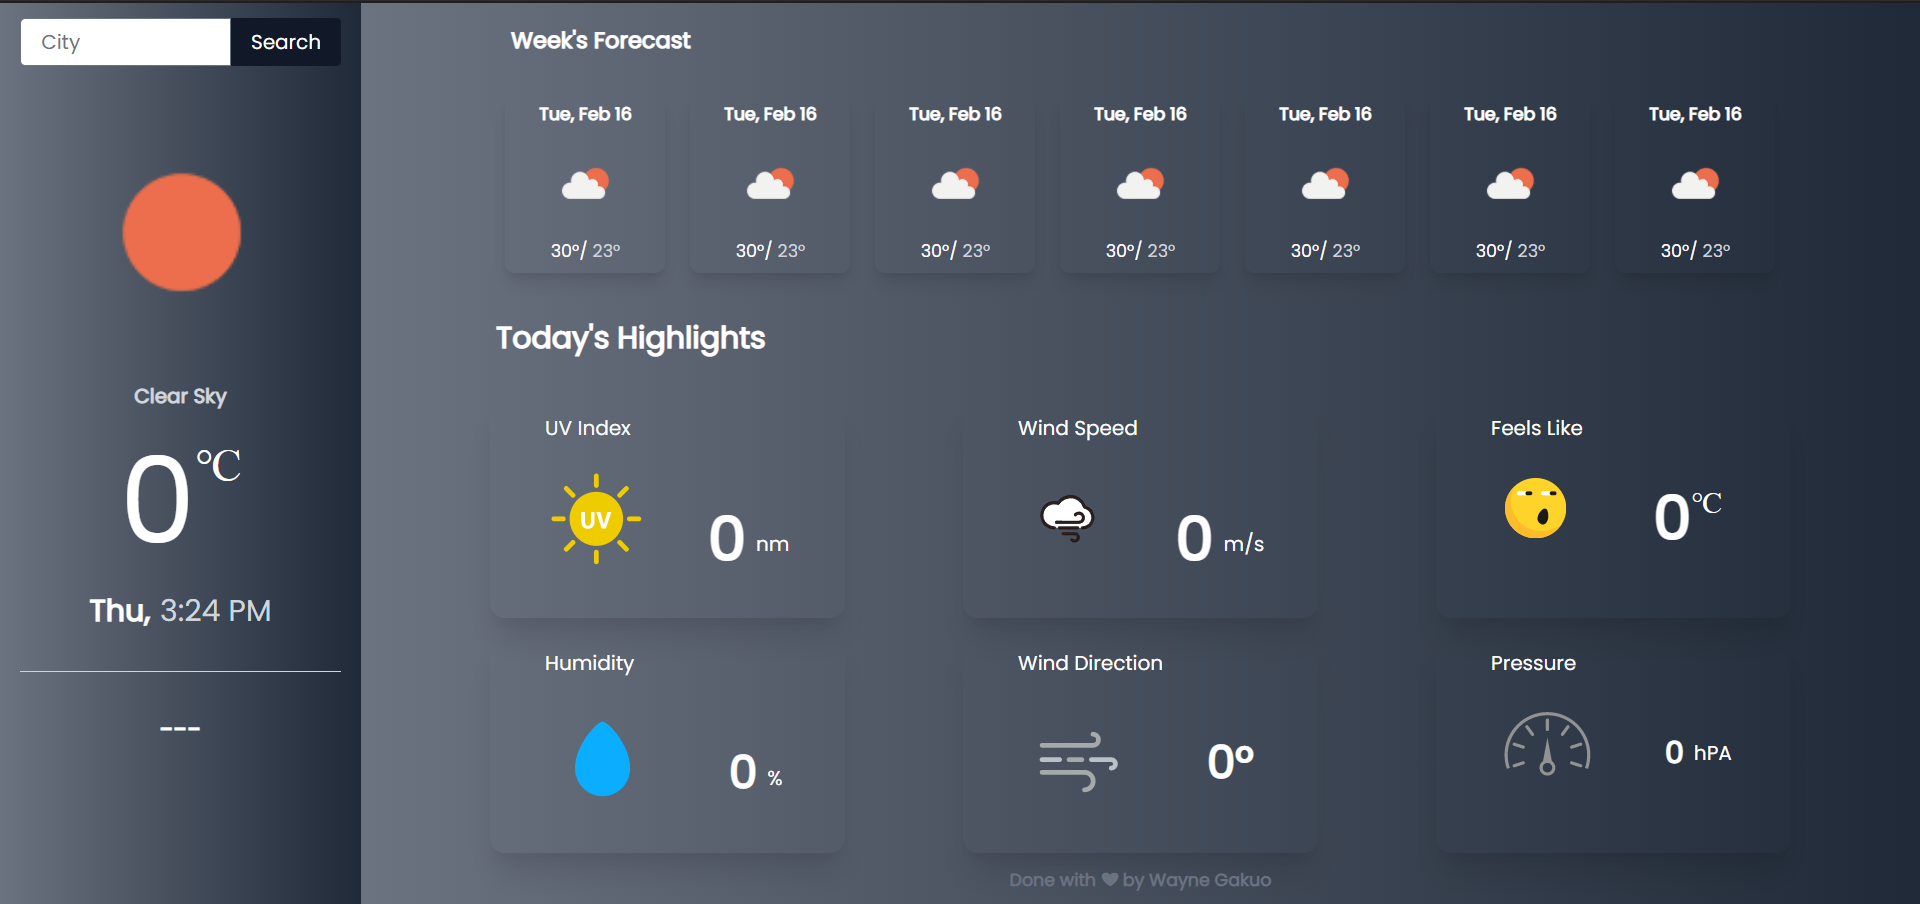
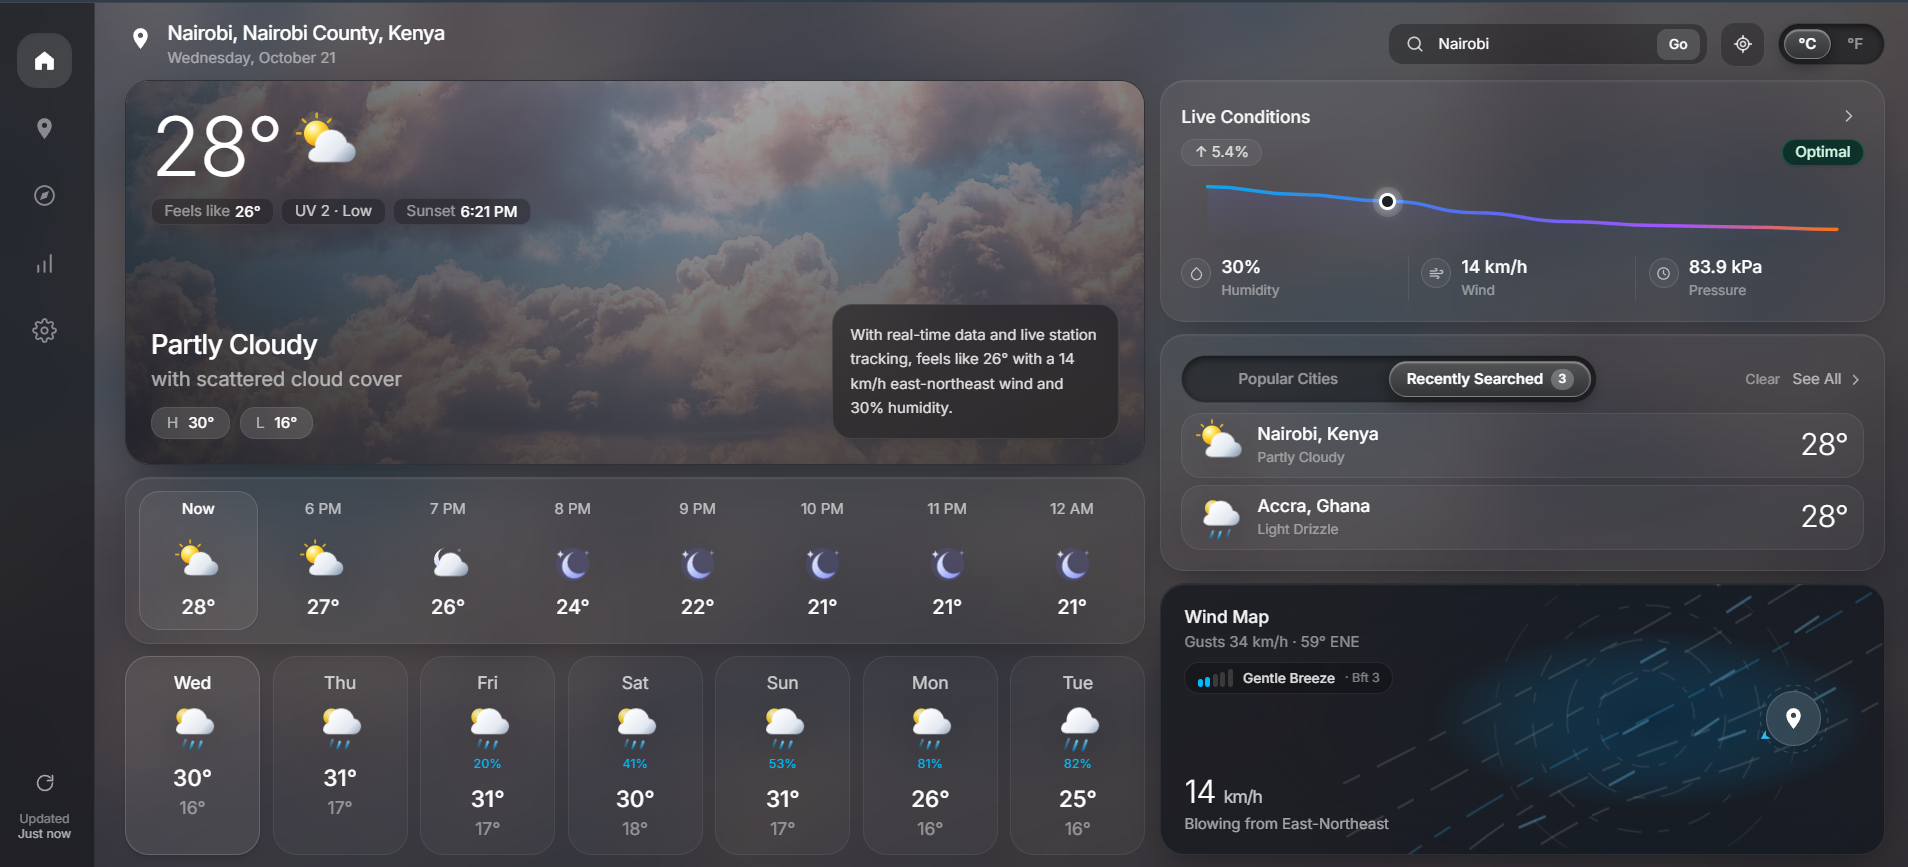
docs(README): update description, features, and stack for enhanced clarity and detail
- Expanded app description with real-time telemetry, GPS, and interactive features.
- Added detailed feature list, highlighting dynamic UI elements and glassmorphic design.
- Updated stack section to reflect Angular v22.2.3 and Tailwind CSS v4 specifics.
- Improved phrasing for API and build output notes.

diff --git a/README.md b/README.md
@@ -1,16 +1,23 @@
 # Weather Forecast
 
-A modern Angular weather app: search any city, see current conditions and a 7-day outlook.
+A full-viewport, dark matte-glass Angular weather dashboard powered by real-time [Open-Meteo](https://open-meteo.com/) telemetry. Search any city worldwide or use live GPS coordinates to view current conditions, hourly trends, a 7-day outlook, interactive live condition splines, and animated wind streamlines.
 
 ![Weather Forecast](src/assets/screenshots/site.png)
 
+## Features
+
+- **Full-Viewport Matte-Glass Dashboard** — Responsive `100dvh` 2-column layout with a vertical navigation rail, pure upper-atmosphere sky photography, and glassmorphic pill-knob segmented controls.
+- **Dynamic Hero Banner** — Fluid viewport-adaptive temperature readout paired with bespoke animated SVG weather icons, a live telemetry strip (`Feels like`, `UV Index`, `Sunrise`/`Sunset`), and an editorial forecast summary.
+- **Interactive Live Conditions Spline** — Smooth cubic-Bezier temperature/humidity curve with hover scrubbing, contextual status badges, and an expandable telemetry drawer.
+- **Popular & Recently Searched Cities** — Segmented glassmorphic tab switcher that persists recent searches in `localStorage` (`weather_recent_cities_v1`) alongside live-hydrated popular global cities.
+- **Animated Wind Map** — Real-time wind vector streamlines, Beaufort wind scale & 5-bar force meter, and a directional compass ring aligned with live meteorological bearings.
+- **Instant Unit Switching (`°C` | `°F`)** — Seamless Celsius and Fahrenheit conversion across all cards, charts, and city lists.
+
 ## Stack
 
-- **Angular 22.2** — standalone components, signal forms, zoneless change detection
-- **[Open-Meteo](https://open-meteo.com/)** — free geocoding + forecast APIs (no API keys)
-- **Tailwind CSS v4**
-
-Previously this project used OpenWeather + HERE with HTTP interceptors and API keys. That flow is replaced by a single service that calls Open-Meteo directly.
+- **Angular 22.2.3** — Standalone components, Signal Forms, and zoneless change detection
+- **[Open-Meteo](https://open-meteo.com/)** — Free geocoding + weather forecast APIs (no API keys required)
+- **Tailwind CSS v4** — Custom matte-glass surfaces, CSS Grid accordions, and fluid typography
 
 ## Development
 
@@ -27,9 +34,9 @@ Open [http://localhost:4200](http://localhost:4200).
 npm run build
 ```
 
-Output is in `dist/weatherapp`.
+Output is generated in `dist/weatherapp`.
 
-## API notes
+## API Notes
 
 | Step | Endpoint |
 |------|----------|
